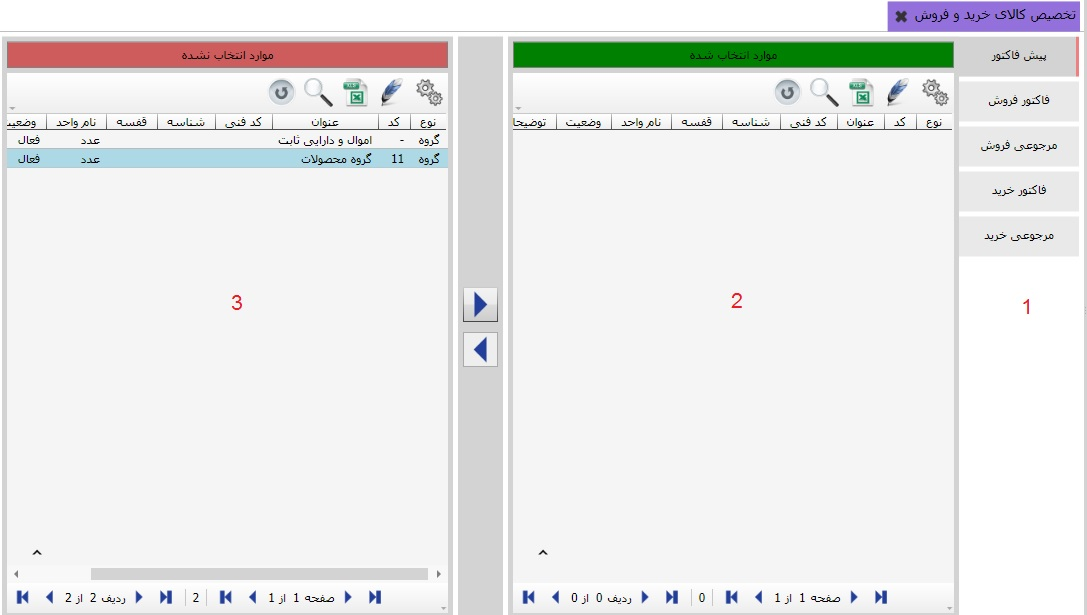
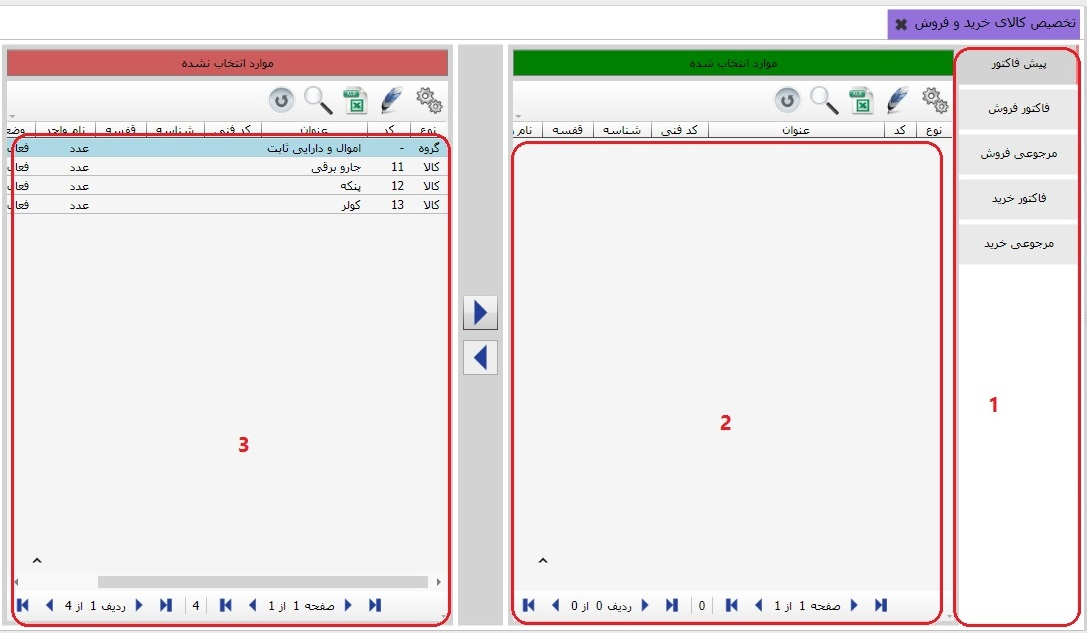
اصلاحات نگارشی

diff --git a/Help/fa-IR/_06_خرید و فروش/_02_تعیین تسویه عملیات/Index.html b/Help/fa-IR/_06_خرید و فروش/_02_تعیین تسویه عملیات/Index.html
@@ -1,31 +1,34 @@
 <!DOCTYPE html>
 <html>
-	<head>
-		<meta charset="UTF-8">
-		<link rel="stylesheet" type="text/css" href="..\..\style.css">
-	</head>
-	<body>
-		<div>
-			<img class="Icon" src="i1.png"/>
-			<h1> تعیین تسویه عملیات </h1>
-		</div>
-		<p>
-			در سیستم خزانه توضیح دادیم که تعدادی عملیات تسویه 
-			خرید و فروش قابل صدور از سیستم خرید و فروش تعریف شده است. زمانی که در
-			 فاکتور فروش یا خرید و ... نحوه تسویه را سایر تسویه قرار دهید، در آن 
-			صورت پس از ثبت فاکتور، سند خزانه مربوط به تسویه فاکتور باز می شود
-			 که می توانید سند تسویه فروش یا خرید را از سیستم خرید و فروش ثبت 
-			کنید. حال در این قسمت می خواهیم عملیات تسویه مربوط به هر یک از
-			 عملیات خرید و فروش را به آن ها اختصاص دهیم. به شکل زیر توجه کنید:
-		</p>
-		<img class="FitPic" src="l1.jpg"/>
-		<p>
-			در شکل فوق در قسمت 1 لیست عملیات خرید و فروش قرار دارد، در قسمت شماره 2 عملیات تسویه
-			 تخصیص داده شده به عملیات خرید و فروش و در قسمت 3 لیست کلیه عملیات تسویه خرید
-			 و فروش به جز موارد تخصیص داده شده به عملیات خرید و فروش مورد نظر واقع شده
-			 است. در واقع برای تعیین عملیات تسویه باید عملیات خرید و فروش مورد نظر را 
-			انتخاب کرده و عملیات تسویه مربوط به آن را از قسمت 3 به قسمت 2 انتقال دهید. 
-		</p>
 
-	</body>
+<head>
+	<meta charset="UTF-8">
+	<link rel="stylesheet" type="text/css" href="..\..\style.css">
+</head>
+
+<body>
+	<div>
+		<img class="Icon" src="i1.png" />
+		<h1> تعیین تسویه عملیات </h1>
+	</div>
+	<p>
+		در سیستم خزانه توضیح دادیم که تعدادی عملیات تسویه
+		قابل صدور از سیستم خرید و فروش تعریف شده است. زمانی که در
+		فاکتور فروش یا خرید و ... نحوه تسویه را سایر انتخاب کاربر قرار دهید، در آن
+		صورت پس از ثبت فاکتور، سند خزانه مربوط به تسویه فاکتور باز می شود
+		که می توانید سند تسویه فروش یا خرید را از سیستم خرید و فروش ثبت
+		کنید. حال در این قسمت می خواهیم عملیات تسویه مربوط به هر یک از
+		عملیات خرید و فروش را به آن ها اختصاص دهیم. به شکل زیر توجه کنید:
+	</p>
+	<img class="FitPic" src="l1.jpg" />
+	<p>
+		در شکل فوق در قسمت 1 لیست عملیات خرید و فروش قرار دارد، در قسمت شماره 2 عملیات تسویه
+		تخصیص داده شده به عملیات خرید و فروش و در قسمت 3 لیست کلیه عملیات تسویه خرید
+		و فروش به جز موارد تخصیص داده شده به عملیات خرید و فروش مورد نظر واقع شده
+		است. در واقع برای تعیین عملیات تسویه باید عملیات خرید و فروش مورد نظر را
+		انتخاب کرده و عملیات تسویه مربوط به آن را از قسمت 3 به قسمت 2 انتقال دهید.
+		در رابطه با تب دوم و سوم صفحه ی بالا نیز همانند تب اول عمل کنید.
+	</p>
+</body>
+
 </html>

diff --git a/Help/fa-IR/_03_مالی و حسابداری/_01_تعریف سرفصل حساب ها/Index.html b/Help/fa-IR/_03_مالی و حسابداری/_01_تعریف سرفصل حساب ها/Index.html
@@ -14,8 +14,7 @@
 	<p>
 		از منوی سمت راست نرم افزار روی گزینه تعریف سر فصل حساب ها
 		کلیک کنید تا صفحه مربوط به آن باز شود.
-		</br>
-		برای شروع کار با اتوماسیون حسابداری نیاز دارید که سر
+		برای شروع کار با سیستم حسابداری نیاز دارید که سر
 		فصل حساب های مورد نیازتان (که از آن تعبیر
 		به کدینگ حساب ها می شود) را تعریف کنید.
 		نرم افزار سایان به شما این اجازه را
@@ -31,7 +30,6 @@
 		پیش فرض نرم افزار را توضیح می دهیم
 		و در ادامه به نحوه تعریف کردن گروه های
 		حساب و حساب های کل و معین خواهیم پرداخت.
-		</br>
 		برای بارگذاری سر فصل پیش فرض، در صفحه تعریف سرفصل
 		حساب ها، از نوار ابزار
 		در شکل زیر آیکن خواندن سر فصل از فایل
@@ -46,13 +44,13 @@
 		پیش فرض با عنوان «کدینگ عمومی» در کادر شماره دو وجود دارد.
 		کدینگ عمومی را انتخاب کنید سپس روی دکمه
 		Open
-		کلیک کنید، پیغام زیر ظاهر می شود
+		کلیک کنید، پیغام زیر ظاهر می شود:
 	</p>
 	<img src="n1.jpg" />
 	<p>
 		مطابق شکل زیر با کلیک روی
 		« بله »
-		این کدینگ در سیستم قرار می گیرد
+		این کدینگ در سیستم قرار می گیرد:
 	</p>
 	<img class="FitPic" src="l2.jpg" />
 	<p>
@@ -71,7 +69,7 @@
 	</p>
 
 	<p>
-		کاربرد سایر کلید ها در صفحه تعریف سرفصل حساب ها به شرح زیر است
+		کاربرد سایر کلید ها در صفحه تعریف سرفصل حساب ها به شرح زیر است:
 	</p>
 	<p>
 		<img class="Icon" src="i2.jpg" />
@@ -100,7 +98,7 @@
 		<img class="Icon" src="i6.jpg" />
 		برگشت به قبلی: در هر جای نرم افزار، در هر
 		صفحه ای که قرار داشته باشید با استفاده از این
-		گزینه می توانید به صفحه قبل از آن بازگردید
+		گزینه می توانید به صفحه قبل از آن بازگردید.
 	</p>
 	<p>
 		در صورتی که نیاز باشد گروه حساب، حساب کل یا حساب معین

diff --git a/Help/fa-IR/_06_خرید و فروش/Index.html b/Help/fa-IR/_06_خرید و فروش/Index.html
@@ -12,16 +12,12 @@
 		<h1> سیستم خرید و فروش </h1>
 	</div>
 	<p>
-		بخش خرید و فروش شامل قسمت های اساسی صدور
-		فاکتور، پیش فاکتور و انواع و اقسام گزارشات خرید
-		و فروش می باشد. در خرید و فروش می توان فاکتور خرید،
+		در خرید و فروش می توان فاکتور خرید،
 		پیش فاکتور، سفارش مشتری، فاکتور فروش و ... صادر نمود.
 		این قسمت، از بخش انبارداری بعنوان زیر ساخت
 		استفاده می کند، به عبارت دیگر انبارداری بخشی
 		از قسمت خرید و فروش است که در آن اطلاعات کالاها،
 		واحدهای اندازه گیری و انبارها تعریف می گردد.
-	</p>
-	<p>
 		بخش اصلی صدور فاکتور
 		خرید و فروش است که در هر شکل که مایل باشید می توانید آن
 		را تهیه کنید. بین سیستم خرید و فروش و سیستم انبارداری،
@@ -34,14 +30,10 @@
 		حسابداری فاکتورهای خرید و فروش را از روی فاکتور صادر نمود. در
 		قسمت گزارشات خرید و فروش نیز، گزارشات بسیار متنوعی براساس
 		اطلاعات ثبت شده به صورت تفکیکی و سرجمع می توان تهیه نمود.
-	</p>
-	<p>
 		امکاناتی چون صدور پیش
 		فاکتور، فاکتور فروش موقت، تعریف بازاریاب، تعریف خدمات جهت
 		فاکتورهای خدماتی، فروش اقساطی، فاکتور فروش ارزی، نمونه های
 		متنوع از چاپ فاکتور فروش و ... نیز در این قسمت موجود است.
-	</p>
-	<p>
 		برای ورود به سیستم خرید و فروش از صفحه اصلی نرم افزار سایان منوی
 		مربوط به این سیستم را انتخاب کنید تا صفحه مربوط به آن باز شود.
 	</p>

diff --git a/Help/fa-IR/_06_خرید و فروش/_04_تخصیص کالای خرید و فروش/Index.html b/Help/fa-IR/_06_خرید و فروش/_04_تخصیص کالای خرید و فروش/Index.html
@@ -9,7 +9,7 @@
 <body>
 	<div>
 		<img class="Icon" src="i1.png" />
-		<h1> تخصیص کالا به عملیات خرید و فروش </h1> 
+		<h1> تخصیص کالا به عملیات خرید و فروش </h1>
 	</div>
 	<p>
 		در این قسمت شما می توانید کالاها را به عملیات خرید و فروش اختصاص دهید.
@@ -17,17 +17,18 @@
 		برای کالاهایی سند صادر کنید که به عملیات مورد نظر تخصیص یافته باشد.
 		توجه داشته باشید که شما هر تعداد کالا که مایل بودید می توانید به
 		یک عملیات اختصاص دهید و هر کالا می تواند به چندین عملیات تخصیص یابد.
-	</p>
-	<p>
 		برای ورود به این قسمت کافی است از سیستم خرید و فروش
 		منوی «تخصیص کالا به عملیات خرید و فروش» را انتخاب کنید.
 	</p>
 	<img class="FitPic" src="l1.jpg" />
 	<p>
-		در تصویر بالا از کادر شماره ی یک عملیات مورد نظر خود را 
-		انتخاب کنید، سپس محصولات یا گروه محصولات مورد نظر خود را از 
-		کادر شماره ی سه انتخاب و به کادر شماره ی 
-		دو انتقال دهید توجه داشته باشید که اگر گروه محصولات خود را 
+		در تصویر بالا از کادر شماره ی یک عملیات مورد نظر خود را
+		انتخاب کنید، سپس محصولات یا گروه محصولات مورد نظر خود را از
+		کادر شماره ی سه انتخاب و به کادر شماره ی
+		دو انتقال دهید
+		<p class="Info">
+			<img class="Icon" src="../../info.png" />
+		توجه داشته باشید که اگر گروه محصولات خود را
 		انتقال دهید همه ی زیر مجموعه های آن گروه نیز منتقل می شود.
 	</p>
 </body>

diff --git a/Help/fa-IR/_18_اطلاعات پایه و مشترک/_06_تعریف حساب های بانکی/Index.html b/Help/fa-IR/_18_اطلاعات پایه و مشترک/_06_تعریف حساب های بانکی/Index.html
@@ -21,17 +21,18 @@
 		نمایان می شود:
 	</p>
 	<img class="FitPic" src="l1.jpg" />
-	<br>
-	در تصویر بالا درون کادر سبز رنگ دو گزینه مشاهده می کنید که گزینه ی اول مربوط به ایجاد گروه
-	و گزینه ی دوم مربوط به ایجاد حساب بانکی می باشد،
-	برای ایجاد گروه کافی است اطلاعات فرم بالا را تکمیل کنید و گزینه ی تایید را بزنید
-	برای ایجاد یک
-	حساب بانکی در درون یک گروه روی گروه مورد نظر دوبار کلیک کنید،
-	از نوار ابزار
-	گزینه ی اضافه یا F8 را بزنید،
-	گزینه ی حساب بانکی را انتخاب کنیدو پس از تکمیل اطلاعات مربوط به آن
-	گزینه ی تایید را بزنید،
-	حساب بانکی در درون گروه ایجاد خواهد شد.
+	<p>
+		در تصویر بالا درون کادر سبز رنگ دو گزینه مشاهده می کنید که گزینه ی اول مربوط به ایجاد گروه
+		و گزینه ی دوم مربوط به ایجاد حساب بانکی می باشد،
+		برای ایجاد گروه کافی است اطلاعات فرم بالا را تکمیل کنید و گزینه ی تایید را بزنید
+		برای ایجاد یک
+		حساب بانکی در درون یک گروه روی گروه مورد نظر دوبار کلیک کنید،
+		از نوار ابزار
+		گزینه ی اضافه یا F8 را بزنید،
+		گزینه ی حساب بانکی را انتخاب کنیدو پس از تکمیل اطلاعات مربوط به آن
+		گزینه ی تایید را بزنید،
+		حساب بانکی در درون گروه ایجاد خواهد شد.
+	</p>
 </body>
 
 </html>

diff --git a/Help/fa-IR/_06_خرید و فروش/_17_صفحه تنظیمات خرید و فروش/Index.html b/Help/fa-IR/_06_خرید و فروش/_17_صفحه تنظیمات خرید و فروش/Index.html
@@ -13,8 +13,6 @@
 	</div>
 	<p>
 		برای مشاهده این صفحه از قسمت تنظیمات روی «صفحه تنظیمات خرید و فروش» کلیک کنید.
-	</p>
-	<p>
 		همانطور که مشاهده می کنید این صفحه دارای چهار تب «اطلاعات پایه»،
 		«عملیات خرید و فروش»، «صدور و ویرایش سند» و «چاپ سند» می باشد که با انتخاب هرکدام
 		صفحه مربوطه نمایش داده می شود، در شکل زیر تب «اطلاعات پایه» انتخاب شده است.
@@ -31,14 +29,12 @@
 		<img class="PicInText" src="pit2.jpg" />
 		در یک فایل xml ذخیره نمایید.
 	</p>
-	<hr />
 	<h2> عملیات خرید و فروش </h2>
 	<p>
 		توضیحات موجود در صفحه درباره کاربرد
 		این صفحه کامل می باشد. در واقع شما در این قسمت می توانید تنظیم کنید که فرمول های
 		مقادیر پس از صدور اولین سند خرید و فروش قابلیت ویرایش شدن داشته باشند یا خیر.
 	</p>
-	<hr />
 	<h2> صدور و ویرایش </h2>
 	<p>
 		با انتخاب تب «صدور و ویرایش سند» از صفحه تنظیمات خرید و فروش پنجره ی زیر نمایان می شود.
@@ -48,7 +44,6 @@
 		در این صفحه سه قسمت وجود دارد که توضیحات کافی در هر قسمت بیان شده است، بعد از مطالعه
 		هر کدام می توانید با انتخاب یکی ازگزینه ها تنظیمات را به دلخواه انجام دهید.
 	</p>
-	<hr />
 	<h2> چاپ سند </h2>
 	<p>
 		شکل زیر تب «چاپ سند» را در صفحه تنظیمات خرید و فروش نمایش می دهد:

diff --git a/Help/fa-IR/_00_شروع کار با راهنما/_03_صفحه اصلی نرم افزار/Index.html b/Help/fa-IR/_00_شروع کار با راهنما/_03_صفحه اصلی نرم افزار/Index.html
@@ -106,14 +106,14 @@
 		با کلیک بر روی این
 		گزینه صفحه راهنمای نرم افزار نمایش داده می شود .
 		این گزینه به صورت کامل در
-		راهنمای صفحه شروع توضیح داده شده است
+		راهنمای صفحه شروع توضیح داده شده است.
 	</p>
 	<img class="Icon" src="i11.jpg" />
 	<p><b>برو به صفحه بعد (Alt + Right) :</b></p>
 	<p>
 		اگر چندین صفحه در نرم افزار
 		به صورت تب باز باشد به کمک این گزینه
-		می توانید بین صفحات از راست به چب جا به جا شوید
+		می توانید بین صفحات از راست به چب جا به جا شوید.
 	</p>
 	<img class="Icon" src="i12.jpg" />
 	<p><b>/ برو به
@@ -283,7 +283,7 @@
 	<img class="FitPic" src="l8.jpg" />
 	<p>
 		در شکل بالا اکر بر روی کادر قرمز رنگ کلیک کنید منو نمایان می شود.
-		مطابق شکل زیر گزینه ای که با فلش قرمز رنگ مشخص شده است
+		مطابق شکل زیر گزینه ای که با فلش قرمز رنگ مشخص شده است.
 		<img class="PicInText" src="i19.jpg" />
 		میز کار می باشد
 	</p>
@@ -301,7 +301,7 @@
 		در تصویر بالا هر یک از زیر سیستم هایی که می خواهید
 		در منوی سمت راست شما حاضر شود را فعال کنید
 		لازم به ذکر است زیر سیستم هایی که آنها را فعال کرده اید در صفحه ی شروع
-		نیز فعال می شوند
+		نیز فعال می شوند.
 	</p>
 	<strong class="title">کادر شماره 4:</strong>
 	<br>

diff --git a/Help/fa-IR/_18_اطلاعات پایه و مشترک/_08_تعریف شعبات/Index.html b/Help/fa-IR/_18_اطلاعات پایه و مشترک/_08_تعریف شعبات/Index.html
@@ -23,14 +23,16 @@
 		از نوار ابزار گزینه ی اضافه یا F8 را بزنید، تصویر زیر نمایان خواهد شد:
 	</p>
 	<img class="FitPic" src="l1.jpg" />
+	<p>
+		در تصویر بالا درون کادر سبز رنگ دو گزینه مشاهده می کنید ،
+		گزینه ی اول تعریف گروه و گزینه ی دوم تعریف شعبه می باشد
+		برای تعریف گروه اطلاعات مربوط به آن را تکمیل کرده و گزینه ی تایید را بزنید،
+		برای تعریف یک شعبه در درون یک گروه روی نام گروه مورد نظر دوبار کلیک کنید،
+		از نوار ابزار گزینه ی اضافه یا F8 را بزنید،
+		گزینه ی تعریف شعبه را فعال کنید ،
+		اطلاعات مربوط به آن را پر کنید و بر روی کلید تایید کلیک کنید.
+	</p>
+
 </body>
-<br>
-در تصویر بالا درون کادر سبز رنگ دو گزینه مشاهده می کنید ،
-گزینه ی اول تعریف گروه و گزینه ی دوم تعریف شعبه می باشد
-برای تعریف گروه اطلاعات مربوط به آن را تکمیل کرده و گزینه ی تایید را بزنید،
-برای تعریف یک شعبه در درون یک گروه روی نام گروه مورد نظر دوبار کلیک کنید،
-از نوار ابزار گزینه ی اضافه یا F8 را بزنید،
-گزینه ی تعریف شعبه را فعال کنید ،
-اطلاعات مربوط به آن را پر کنید و بر روی کلید تایید کلیک کنید.
 
 </html>

diff --git a/Help/fa-IR/_06_خرید و فروش/_08_صدور و ویرایش سند خرید و فروش/Index.html b/Help/fa-IR/_06_خرید و فروش/_08_صدور و ویرایش سند خرید و فروش/Index.html
@@ -13,7 +13,7 @@
 	</div>
 	<p>
 		در این بخش می توانید اسناد خرید و فروش را صادر، ویرایش و یا حذف کنید،
-		در صورتی که دسترسی برای شما 
+		در صورتی که دسترسی برای شما
 		آزاد باشد می توانید برای اسناد خرید و فروش سند حسابداری نیز صادر کنید
 		برای ورود به این صفحه روی منوی «صدور و ویرایش سند خرید و فروش»
 		کلیک کنید، پنجره ی زیر ظاهر می شود:
@@ -265,7 +265,7 @@
 		برای حذف فایل انتخاب شده از لیست فایل های ضمیمه از گزینه «حذف» استفاده می شود.
 	</p>
 	<p class="Point">
-		<img class="Icon" src="../../info.png" />
+		<img class="Icon" src="../../point.png" />
 		لازم است بدانید برای استفاده
 		از گزینه «ضمیمه کردن فایل ها» باید ابتدا مسیر ضمیمه ها را در پنجره «مدیریت سرور»
 		تعیین کنید که شرح کامل آن را می توانید در فایل «قابلیت های عمومی نرم افزار» مشاهده نمایید.

diff --git a/Help/fa-IR/_06_خرید و فروش/_10_لیست های سفارش/Index.html b/Help/fa-IR/_06_خرید و فروش/_10_لیست های سفارش/Index.html
@@ -15,8 +15,6 @@
 		این صفحه این امکان را به شما میدهد که بتوانید برای
 		کالا و یا محصول خود لیست سفارش مشخص کنید. و هر بار با مراجعه به این صفحه
 		میتوانید از کسری موجودی خود اطلاع پیدا کرده و نسبت به سفارش کالا اقدام نمایید.
-	</p>
-	<p>
 		صفحه لیست های سفارش دارای 3 تب «تعریف لیست»، «تعیین نقطه سفارش»
 		و «محاسبه موجودی و صدور سند» می باشد که به صورت پیش فرض هنگام ورود به
 		این صفحه تب «تعریف لیست» فعال می باشد که ابتدا به شرح این تب می پردازیم:
@@ -27,7 +25,6 @@
 		روی گزینه اضافه از نوار ابزار کلیک کنید تا فرم ایجاد تعریف لیست نمایان شود:
 	</p>
 	<img class="FitPic" src="l1.jpg" />
-	<hr />
 	<h2> تعیین نقطه سفارش </h2>
 	<p>
 		بعد از تعریف عنوان لیست در این قسمت باید کالا ها را با تعداد مورد نظر به

diff --git a/Help/fa-IR/_03_مالی و حسابداری/_02_تعریف سرفصل تفصیل/Index.html b/Help/fa-IR/_03_مالی و حسابداری/_02_تعریف سرفصل تفصیل/Index.html
@@ -25,9 +25,8 @@
 		توضیح خواهیم داد و در قسمت های بعد نحوه
 		استفاده از حساب های تفصیل را در صدور
 		اسناد حسابداری مشاهده خواهید کرد.
-		</br>
-		روی منوی تعریف سر فصل تفصیل کلیک کنید، صفحه ی زیر باز می شود
-		</br>
+		روی منوی تعریف سر فصل تفصیل کلیک کنید، صفحه ی زیر باز می شود:
+	</p>
 		<img class="FitPic" src="l1.jpg" />
 	</p>
 	<p>
@@ -46,7 +45,7 @@
 		<p>
 			در نوار ابزار شکل بالا گزینه ای
 			به نام تعیین معین ثابت وجود دارد
-			که در زیر به شرح آن می پردازیم
+			که در زیر به شرح آن می پردازیم:
 		</p>
 	</p>
 	<p>
@@ -91,7 +90,7 @@
 		برای ایجاد تفصیل در سرفصل تفصیل اشخاص
 		ابتدا مطابق شکل زیر از صفحه ی
 		اصلی نرم افزار، منوی «اطلاعات پایه و مشترک»
-		را انتخاب کنید
+		را انتخاب کنید:
 		</br>
 		<img class="TinyPic" src="n3.jpg" />
 		<br>

diff --git a/Help/fa-IR/_06_خرید و فروش/_03_تخصیص مبنای عملیات خرید و فروش/Index.html b/Help/fa-IR/_06_خرید و فروش/_03_تخصیص مبنای عملیات خرید و فروش/Index.html
@@ -22,7 +22,7 @@
 		با انتخاب یکی از عملیات ها از کادر شماره ی یک می توانید از کادر شماره ی سه
 		عملیات مورد نظر را به سمت راست منتقل کرده و مبنا قرار دهید، مبنا به این مفهموم است یک
 		عملیات نسبت به عملیاتی دیگر مقدم است، به طور مثال ما در یک شرکت بازرگانی
-		تا زمانی که کالا خریداری نکنیم نمی توانیم کالایی بفروشیم پس فروش بر مبنای خرید صورت می گیرد
+		تا زمانی که کالا خریداری نکنیم نمی توانیم کالایی بفروشیم پس فروش بر مبنای خرید صورت می گیرد.
 	</p>
 	<p class="Point">
 		<img class="Icon" src="../../point.png" />
